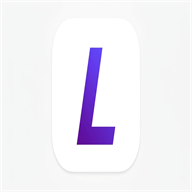
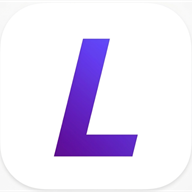
Update.15.3

Changed region(s): [[0.2812, 0.1875, 0.7188, 0.8438], [0.3125, 0.875, 0.6562, 0.9062]]

diff --git a/index.html b/index.html
@@ -3,7 +3,7 @@
 <head>
   <meta charset="UTF-8" />
   <meta name="viewport" content="width=device-width, initial-scale=1, viewport-fit=cover" />
-  <meta name="theme-color" content="#5B21B6" />
+  <meta name="theme-color" content="#5312B1" />
   <meta name="description" content="LingoLift — vocabulary learning with spaced repetition" />
   <meta name="apple-mobile-web-app-capable" content="yes" />
   <meta name="apple-mobile-web-app-status-bar-style" content="black-translucent" />

diff --git a/sw.js b/sw.js
@@ -1,4 +1,4 @@
-const CACHE = 'lingolift-v15.1';
+const CACHE = 'lingolift-v15.2';
 const ASSETS = [
   './',
   './index.html',

diff --git a/project-memory.md b/project-memory.md
@@ -1,11 +1,13 @@
 # LingoLift — project memory (for AI context)
 
-**Document version:** 15.1  
-**App / Service Worker cache:** `lingolift-v15.1` (`sw.js` → `CACHE = 'lingolift-v15.1'`)
+**Document version:** 15.2  
+**App / Service Worker cache:** `lingolift-v15.2` (`sw.js` → `CACHE = 'lingolift-v15.2'`)
+
+**v15.2:** **App avatar** is the user-provided **L** icon screenshot (`icons/icon-source.png`). **`export-icon-sizes.ps1`** crops to a **center square** then exports **192** / **512** and root **`android-chrome-*.png`**. **`theme_color`** **`#5312B1`** (deep purple from gradient).
 
 **v15.1:** Regenerated **high-resolution (~1024×1024) master** icon: crisp bold **L**, lifted/slanted, violet→deep-purple gradient, white squircle, letter **≥ ~80%** of canvas — then downscaled to **`icon-512.png`**, **`icon-192.png`**, and root **`android-chrome-*.png`** via **`icons/export-icon-sizes.ps1`**. Fixes blurry favicon when the browser scales up a tiny asset.
 
-**v15:** Added custom branding: Minimalist “L” lifted icon and linked PWA favicons. **`index.html`** uses **`android-chrome-192x192.png`** / **`android-chrome-512x512.png`** at repo root for **`rel="icon"`** (with **`sizes`**) and **`apple-touch-icon`**. **`manifest.json`** icons point to the same files; **`theme_color`** **`#5B21B6`** (deep violet); **`background_color`** **`#0a0a0f`** (app shell). **`icons/`** holds **`icon-source.png`** (HQ master), **`icon-192.png`**, **`icon-512.png`** and **`export-icon-sizes.ps1`** for regenerating assets.
+**v15:** Added custom branding: Minimalist “L” lifted icon and linked PWA favicons. **`index.html`** uses **`android-chrome-192x192.png`** / **`android-chrome-512x512.png`** at repo root for **`rel="icon"`** (with **`sizes`**) and **`apple-touch-icon`**. **`manifest.json`** icons point to the same files; **`theme_color`** now **`#5312B1`** (see v15.2); **`background_color`** **`#0a0a0f`** (app shell). **`icons/`** holds **`icon-source.png`**, **`icon-192.png`**, **`icon-512.png`** and **`export-icon-sizes.ps1`** for regenerating assets.
 
 **v14:** Performance pass: leaner due-today queue, shared Supabase client in refresh/add/update paths, legacy migration refetch only when needed, GPU-friendlier review reveal and sync strip, resilient SW precache.
 
@@ -22,7 +24,7 @@
 - **`js/app.js`:** `dueTodayQueue` uses one **`endOfToday()`** read and a single pass + sort (no per-card `filter` callback); removed **`loadCards`** wrapper; **`parseGtxTranslation`** builds an array then **`join`**; cached DOM refs for how-to controls and add-card submit; **`void`** on fire-and-forget refresh.
 - **`js/data-store.js`:** **`runRefreshPipeline`** uses **`const { client, userId } = await ensureSession()`** and passes **`client`** into **`flushOutbox`**, **`fetchRemoteCards`**, **`migrateLegacyIfNeeded`** to avoid redundant **`ensureClient()`**; **`migrateLegacyIfNeeded(userId, remote, client)`** reuses the first remote fetch and returns **`true`** only when legacy rows were inserted, then refetches once; **`addCard`** / **`updateCardNextReview`** use **`client`** from **`ensureSession()`** only.
 - **`css/styles.css`:** Sync strip uses **`contain: layout`**, **`translateZ(0)`**, and opacity timing aligned with **`--sync-ease`** to reduce flicker; **`.flash-back-wrap`** uses **`translate3d`**, **`contain: content`**, **`backface-visibility: hidden`** for smoother compositing on mobile.
-- **`sw.js`:** Install uses **`Promise.allSettled`** per asset so one failed URL does not block the rest; cache name bumped with versions (e.g. **`lingolift-v15.1`** after icon refresh).
+- **`sw.js`:** Install uses **`Promise.allSettled`** per asset so one failed URL does not block the rest; cache name bumped with versions (e.g. **`lingolift-v15.2`**).
 - **`js/i18n.js`:** Removed unused string keys (**`toastSynced`**, **`toastEnterWord`**).
 
 ---
@@ -39,7 +41,7 @@
 ## Brand / header
 
 - **Minimal header:** Violet **dot** (`.brand-dot`) next to static **`h1.brand-name`** (“LingoLift” gradient). No logo button / frog.
-- **PWA / favicons (v15):** Root **`android-chrome-192x192.png`** and **`android-chrome-512x512.png`** (copies of generated icons). **`meta name="theme-color"`** **`#5B21B6`** to match manifest tint.
+- **PWA / favicons (v15+):** Root **`android-chrome-192x192.png`** and **`android-chrome-512x512.png`**. **`meta name="theme-color"`** **`#5312B1`** to match manifest tint.
 
 ---
 
